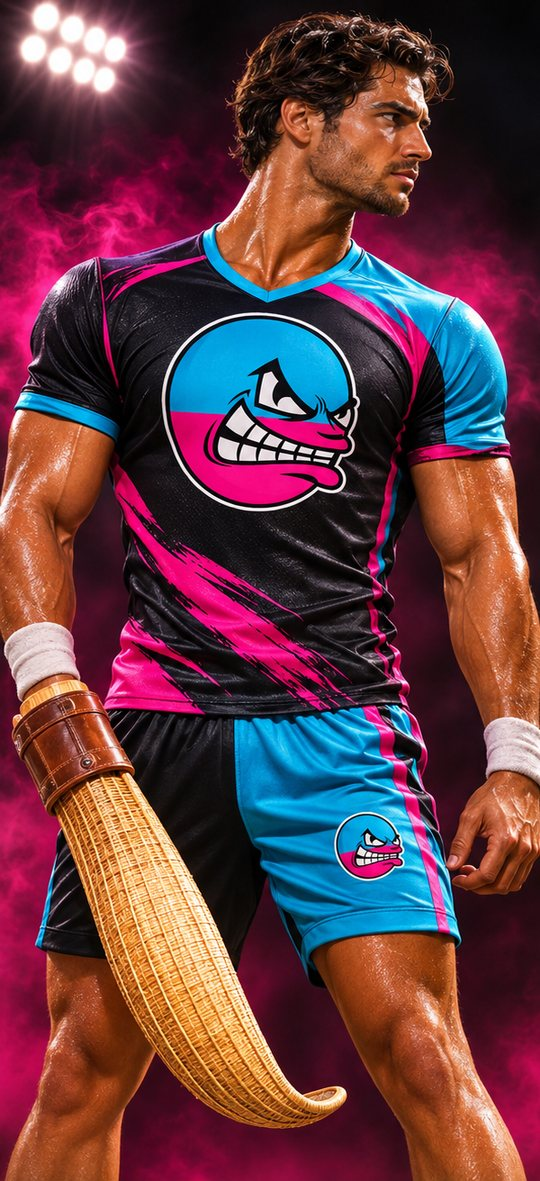
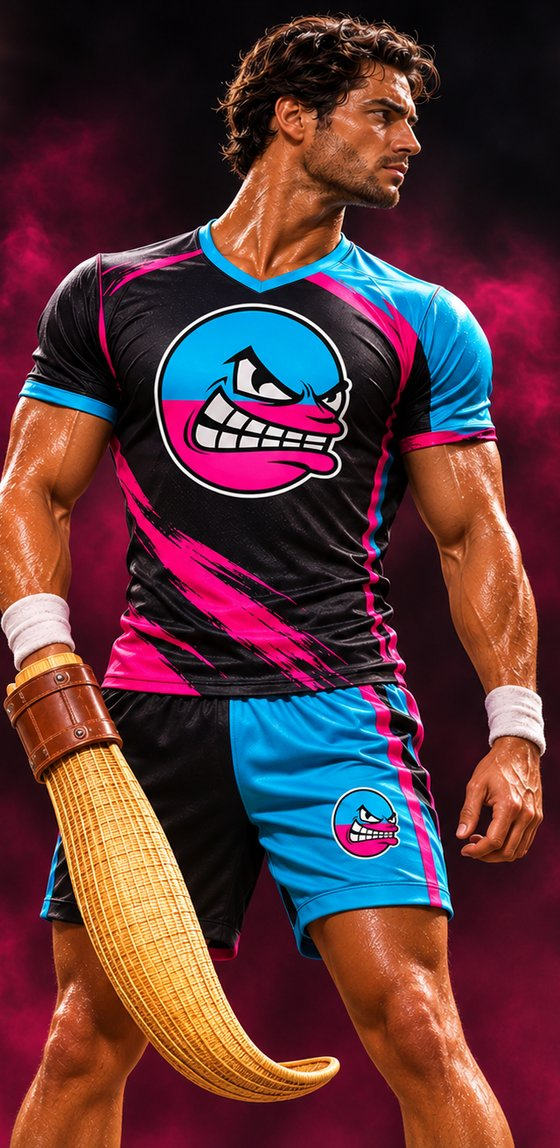
Preview poster: Squared Groupers and Peloteros halves from JP's single-player art
Each team's half now comes from its own picture, so neither is cut from
a shared poster. The halves meet in a soft shadow.

Claude-Session: https://claude.ai/code/session_01RXYkimbn35SjoihCfai7fS

diff --git a/index.html b/index.html
@@ -515,7 +515,9 @@ body.poster-on #tapPlay { display: block; position: sticky; bottom: calc(10px + 
 body.poster-on #a2hs { bottom: calc(84px + env(safe-area-inset-bottom, 0px)); }
 #poster { position: fixed; inset: 0; z-index: 9500; background: #05060a; display: flex; flex-direction: column; align-items: center; justify-content: center; gap: 14px; padding: 16px; opacity: 0; transition: opacity .35s ease; }
 #poster.on { opacity: 1; }
-#poster .pz { position: relative; display: flex; height: min(72vh, calc((100vw - 32px) * 1.094)); aspect-ratio: 1199 / 1312; max-width: 100%; border-radius: 16px; overflow: hidden; box-shadow: 0 14px 44px rgba(0,0,0,.7); }
+#poster .pz { position: relative; display: flex; height: min(72vh, calc((100vw - 32px) * 1.025)); aspect-ratio: 1120 / 1148; max-width: 100%; border-radius: 16px; overflow: hidden; box-shadow: 0 14px 44px rgba(0,0,0,.7); }
+#poster .pz::after { content: ''; position: absolute; top: 0; bottom: 0; left: 50%; width: 18%; transform: translateX(-50%); pointer-events: none; z-index: 1;
+  background: linear-gradient(90deg, transparent, rgba(5,6,10,.55) 50%, transparent); }   /* the two halves meet in shadow, not a hard line */
 #poster .ph { position: relative; flex: 1 1 50%; min-width: 0; background-size: cover; background-position: center top; }
 #poster .ph.r { transform: scaleX(-1); }                                  /* every half is drawn facing right; the right-hand team is turned to face it */
 #poster .ph .fb { position: absolute; inset: 0; display: flex; align-items: center; justify-content: center; }
@@ -1878,7 +1880,7 @@ if (typeof module !== 'undefined') module.exports = Core;
   /* ---------- matchup poster (preview build only): a still court, a Tap to Play button, then the poster while the match loads ---------- */
   var POSTER = !!window.FL_POSTER;
   if (POSTER) document.body.classList.add('poster-on');
-  var POSTERS = { '0m': 'poster-0-m.jpg', '1m': 'poster-1-m.jpg' };   // roster index + m/w. Each half faces right; missing ones fall back to the team badge
+  var POSTERS = { '0m': 'poster-0-m.jpg?v=2', '1m': 'poster-1-m.jpg?v=2' };   // roster index + m/w. Each half faces right; missing ones fall back to the team badge
   function posterHalf(el, t) {
     var r = ROSTER[t], key = t + (cfg.who === 'women' ? 'w' : 'm'), src = POSTERS[key] || (cfg.who === 'mixed' ? POSTERS[t + 'm'] : null);
     el.innerHTML = ''; el.style.backgroundImage = '';

diff --git a/original/index.html b/original/index.html
@@ -513,7 +513,9 @@ body.poster-on #tapPlay { display: block; position: sticky; bottom: calc(10px + 
 body.poster-on #a2hs { bottom: calc(84px + env(safe-area-inset-bottom, 0px)); }
 #poster { position: fixed; inset: 0; z-index: 9500; background: #05060a; display: flex; flex-direction: column; align-items: center; justify-content: center; gap: 14px; padding: 16px; opacity: 0; transition: opacity .35s ease; }
 #poster.on { opacity: 1; }
-#poster .pz { position: relative; display: flex; height: min(72vh, calc((100vw - 32px) * 1.094)); aspect-ratio: 1199 / 1312; max-width: 100%; border-radius: 16px; overflow: hidden; box-shadow: 0 14px 44px rgba(0,0,0,.7); }
+#poster .pz { position: relative; display: flex; height: min(72vh, calc((100vw - 32px) * 1.025)); aspect-ratio: 1120 / 1148; max-width: 100%; border-radius: 16px; overflow: hidden; box-shadow: 0 14px 44px rgba(0,0,0,.7); }
+#poster .pz::after { content: ''; position: absolute; top: 0; bottom: 0; left: 50%; width: 18%; transform: translateX(-50%); pointer-events: none; z-index: 1;
+  background: linear-gradient(90deg, transparent, rgba(5,6,10,.55) 50%, transparent); }   /* the two halves meet in shadow, not a hard line */
 #poster .ph { position: relative; flex: 1 1 50%; min-width: 0; background-size: cover; background-position: center top; }
 #poster .ph.r { transform: scaleX(-1); }                                  /* every half is drawn facing right; the right-hand team is turned to face it */
 #poster .ph .fb { position: absolute; inset: 0; display: flex; align-items: center; justify-content: center; }
@@ -1875,7 +1877,7 @@ if (typeof module !== 'undefined') module.exports = Core;
   /* ---------- matchup poster (preview build only): a still court, a Tap to Play button, then the poster while the match loads ---------- */
   var POSTER = !!window.FL_POSTER;
   if (POSTER) document.body.classList.add('poster-on');
-  var POSTERS = { '0m': 'poster-0-m.jpg', '1m': 'poster-1-m.jpg' };   // roster index + m/w. Each half faces right; missing ones fall back to the team badge
+  var POSTERS = { '0m': 'poster-0-m.jpg?v=2', '1m': 'poster-1-m.jpg?v=2' };   // roster index + m/w. Each half faces right; missing ones fall back to the team badge
   function posterHalf(el, t) {
     var r = ROSTER[t], key = t + (cfg.who === 'women' ? 'w' : 'm'), src = POSTERS[key] || (cfg.who === 'mixed' ? POSTERS[t + 'm'] : null);
     el.innerHTML = ''; el.style.backgroundImage = '';

diff --git a/preview/index.html b/preview/index.html
@@ -516,7 +516,9 @@ body.poster-on #tapPlay { display: block; position: sticky; bottom: calc(10px + 
 body.poster-on #a2hs { bottom: calc(84px + env(safe-area-inset-bottom, 0px)); }
 #poster { position: fixed; inset: 0; z-index: 9500; background: #05060a; display: flex; flex-direction: column; align-items: center; justify-content: center; gap: 14px; padding: 16px; opacity: 0; transition: opacity .35s ease; }
 #poster.on { opacity: 1; }
-#poster .pz { position: relative; display: flex; height: min(72vh, calc((100vw - 32px) * 1.094)); aspect-ratio: 1199 / 1312; max-width: 100%; border-radius: 16px; overflow: hidden; box-shadow: 0 14px 44px rgba(0,0,0,.7); }
+#poster .pz { position: relative; display: flex; height: min(72vh, calc((100vw - 32px) * 1.025)); aspect-ratio: 1120 / 1148; max-width: 100%; border-radius: 16px; overflow: hidden; box-shadow: 0 14px 44px rgba(0,0,0,.7); }
+#poster .pz::after { content: ''; position: absolute; top: 0; bottom: 0; left: 50%; width: 18%; transform: translateX(-50%); pointer-events: none; z-index: 1;
+  background: linear-gradient(90deg, transparent, rgba(5,6,10,.55) 50%, transparent); }   /* the two halves meet in shadow, not a hard line */
 #poster .ph { position: relative; flex: 1 1 50%; min-width: 0; background-size: cover; background-position: center top; }
 #poster .ph.r { transform: scaleX(-1); }                                  /* every half is drawn facing right; the right-hand team is turned to face it */
 #poster .ph .fb { position: absolute; inset: 0; display: flex; align-items: center; justify-content: center; }
@@ -1879,7 +1881,7 @@ if (typeof module !== 'undefined') module.exports = Core;
   /* ---------- matchup poster (preview build only): a still court, a Tap to Play button, then the poster while the match loads ---------- */
   var POSTER = !!window.FL_POSTER;
   if (POSTER) document.body.classList.add('poster-on');
-  var POSTERS = { '0m': 'poster-0-m.jpg', '1m': 'poster-1-m.jpg' };   // roster index + m/w. Each half faces right; missing ones fall back to the team badge
+  var POSTERS = { '0m': 'poster-0-m.jpg?v=2', '1m': 'poster-1-m.jpg?v=2' };   // roster index + m/w. Each half faces right; missing ones fall back to the team badge
   function posterHalf(el, t) {
     var r = ROSTER[t], key = t + (cfg.who === 'women' ? 'w' : 'm'), src = POSTERS[key] || (cfg.who === 'mixed' ? POSTERS[t + 'm'] : null);
     el.innerHTML = ''; el.style.backgroundImage = '';
